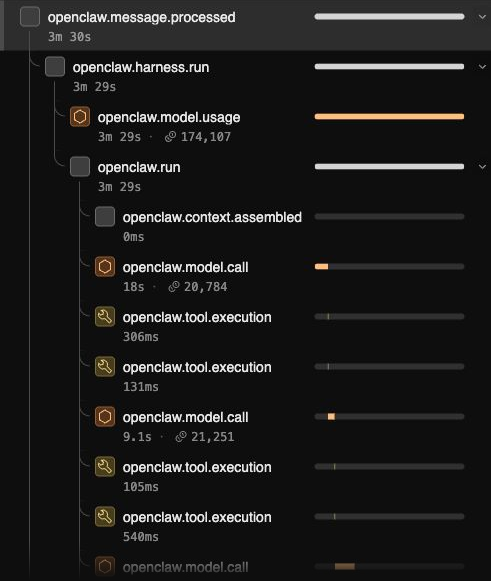
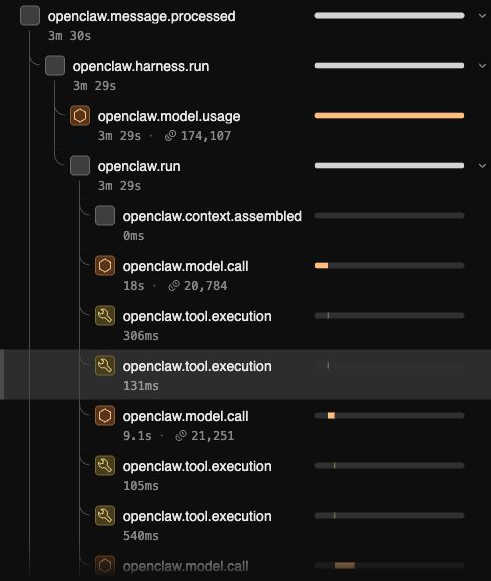
Highlight the same tool call in both trace trees
- Uses the screenshots with the 131 ms calendar lookup selected in both exports.
- Notes that the default export already records each tool call's parameters and result; the readable export makes the sequence and reasoning easy to follow.

Claude-Session: https://claude.ai/code/session_01N89AVAkXsM319rUbbxpqAx

diff --git a/README.md b/README.md
@@ -171,7 +171,7 @@ I wrote an [observer plugin](observer/) that names each run, fills in its reques
 | Root span name | `openclaw.harness.run` or `openclaw.message.processed` | Heartbeat, Conversation, Scheduled task or Evaluation |
 | `input.value` and `output.value` | Missing | The request and the final reply |
 | `session.id` | Missing | One identifier per conversation, so its turns group together |
-| Tool names | Every tool span is `openclaw.tool.execution` | In the readable export, each step is named for the tool that ran, such as `read` or `apple_calendar_events` |
+| Tool names | Every tool span is named `openclaw.tool.execution`, with the tool's name only in its attributes | In the readable export, each step is named for the tool that ran, such as `read` or `apple_calendar_events` |
 | Token counts | Aggregate usage counted as an extra model call | Per-call usage, with the aggregate kept as a diagnostic counter |
 | Recorded reasoning | Not exported | Optional, bounded and credential-redacted |
 
@@ -186,7 +186,7 @@ Two runs in Phoenix's trace list, a heartbeat and a question about this week's r
 
 *The readable export is the plugin's record of each run, re-exported offline.*
 
-Inside the readings run, every model step is named `openclaw.model.call` and every tool step `openclaw.tool.execution`. The readable export numbers the steps, names each for what it did and shows the recorded reasoning under each model call:
+Inside the readings run, the default export already records each tool call's parameters and result, but every step in the tree is named `openclaw.model.call` or `openclaw.tool.execution`, so you have to open each one to follow the run. The readable export numbers the steps and names each for what it did, with the recorded reasoning under each model call:
 
 <table>
   <tr>
@@ -194,10 +194,12 @@ Inside the readings run, every model step is named `openclaw.model.call` and eve
     <th width="50%">Readable export</th>
   </tr>
   <tr>
-    <td><img src="figures/trace-tree-default.png" width="100%" alt="The first steps of the readings run in the default export: a root named openclaw.message.processed, an extra openclaw.model.usage span holding the run's total of 174,107 tokens, then alternating openclaw.model.call and openclaw.tool.execution spans."></td>
-    <td><img src="figures/trace-tree-readable.png" width="100%" alt="The same steps in the readable export: a root named Coursework · This week's readings, then numbered steps such as 01. Model · choose next step, 02. Tool · read and 03. Tool · apple_calendar_events, with recorded reasoning under each model call."></td>
+    <td><img src="figures/trace-tree-default.png" width="100%" alt="The first steps of the readings run in the default export: a root named openclaw.message.processed, an extra openclaw.model.usage span holding the run's total of 174,107 tokens, then alternating openclaw.model.call and openclaw.tool.execution spans, with the 131 ms calendar lookup highlighted."></td>
+    <td><img src="figures/trace-tree-readable.png" width="100%" alt="The same steps in the readable export: a root named Coursework · This week's readings, then numbered steps such as 01. Model · choose next step, 02. Tool · read and 03. Tool · apple_calendar_events, with recorded reasoning under each model call and the same calendar lookup highlighted."></td>
   </tr>
 </table>
+
+*The highlighted row is the same 131 ms calendar lookup in both.*
 
 <a id="observer-plugin"></a>
 <details>
